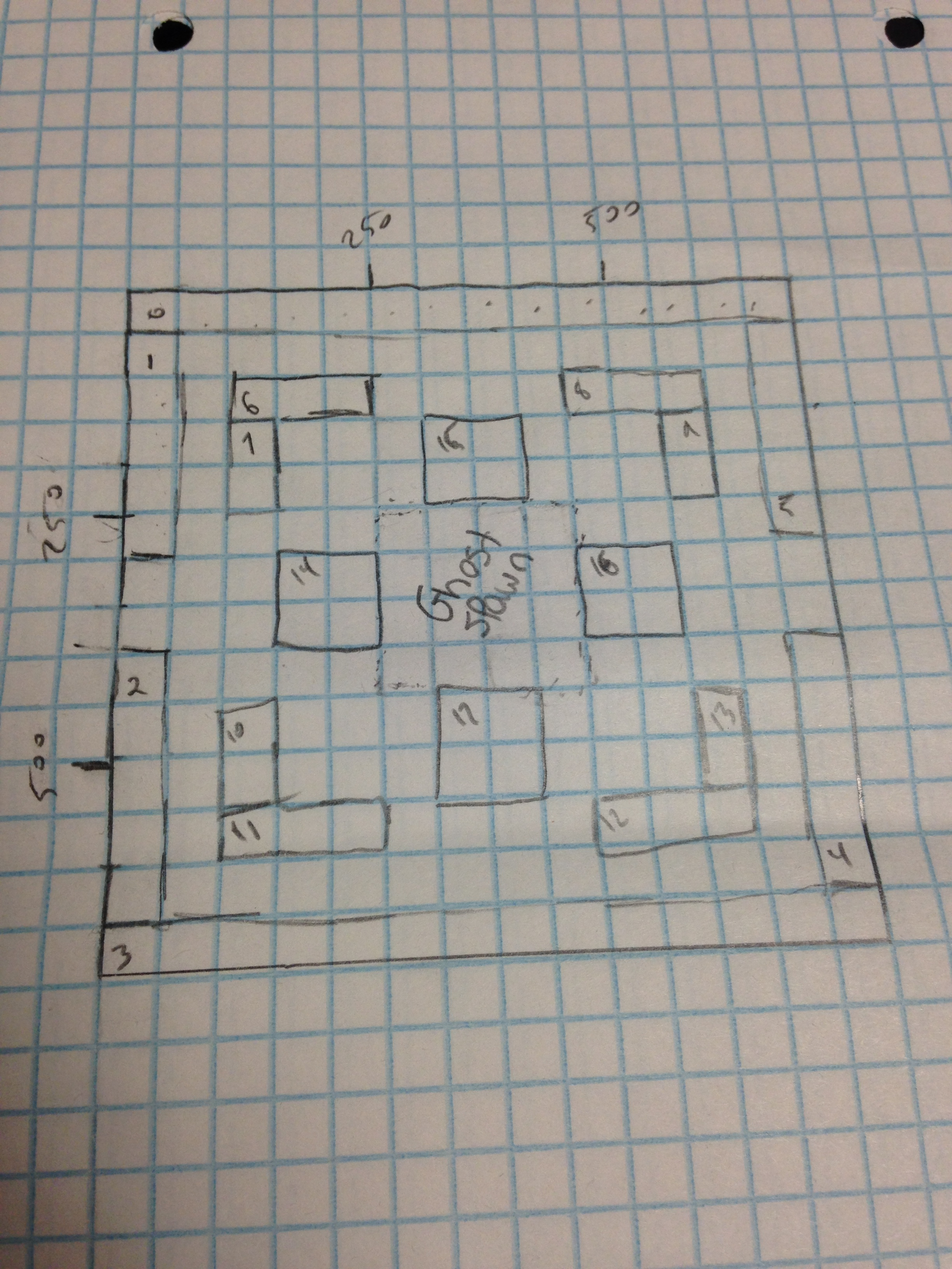
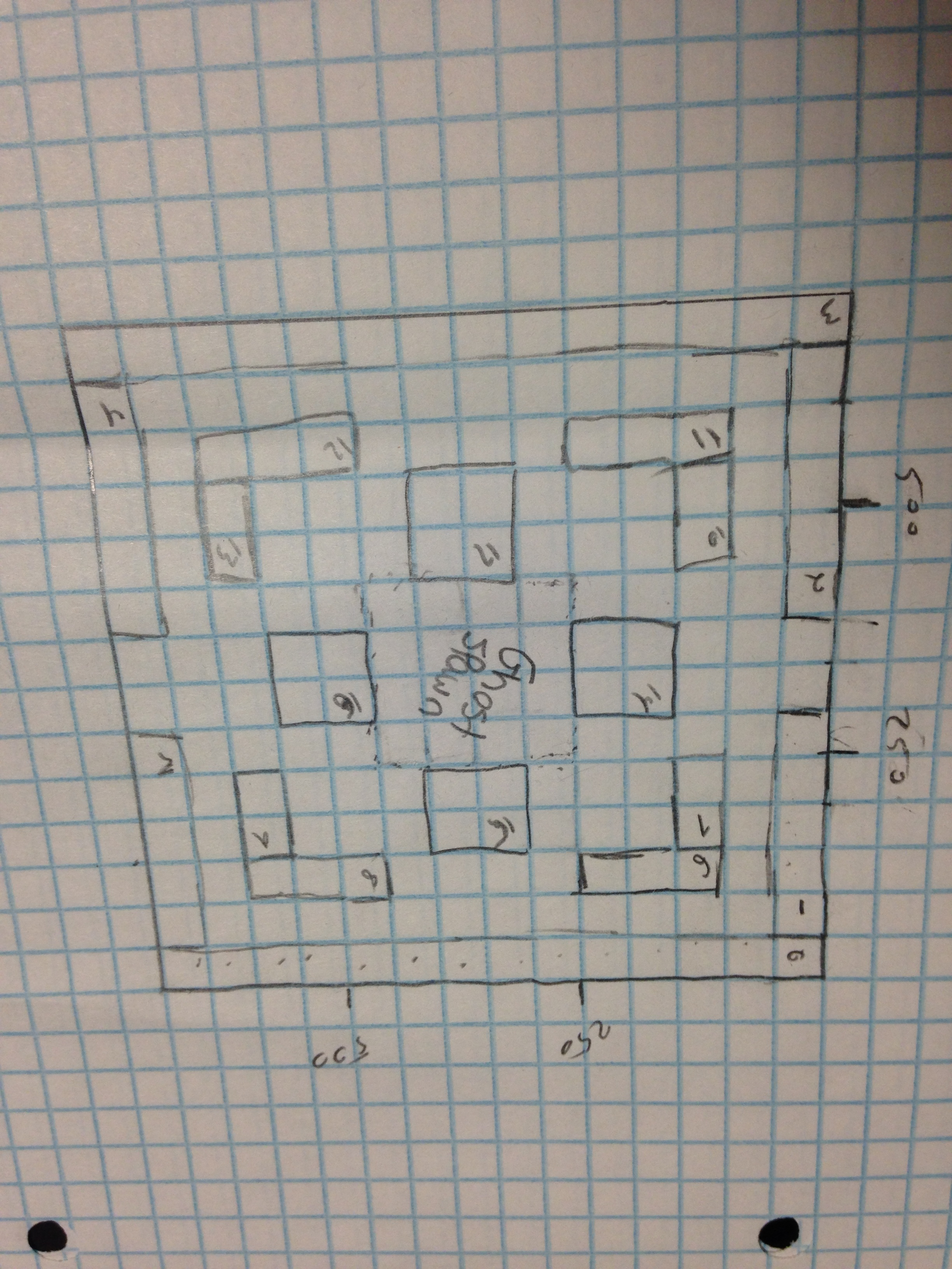
got one singular wall in

diff --git a/Game.py b/Game.py
@@ -19,7 +19,7 @@ walls = [Wall([0,0],[800,50]), #0
          Wall([0,650],[700,700]),
          Wall([650,400],[700,650]),
          Wall([650,50],[700,300]), #5
-         Wall([650,50],[700,300]), 
+         Wall([100,100],[250,150]), 
          Wall([650,50],[700,300]), 
          Wall([650,50],[700,300]), 
          Wall([650,50],[700,300]), 
